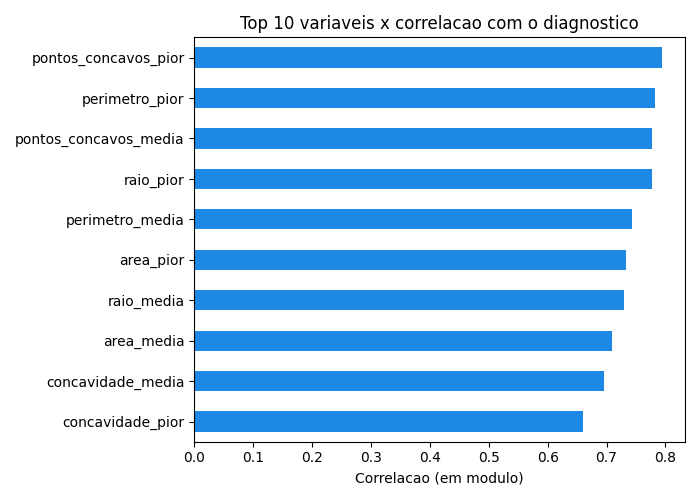
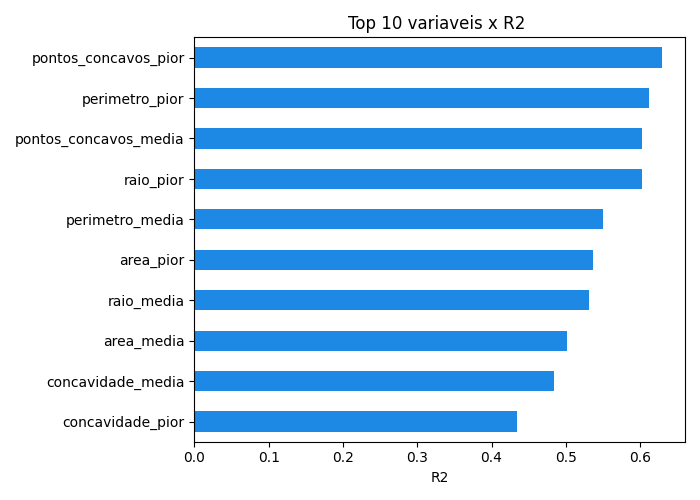
Usa R2 (eta-quadrado) para a associacao feature-diagnostico
- 01_analise_exploratoria.py: substitui correlacao de Pearson por
  eta-quadrado (1 - var_dentro/var_total, ddof=1), consistente com r2_features.py
- regenera imagens/correlacoes.png com o ranking por R2
- adiciona r2_features.py e prompt de slides; ignora *.log (politica source-only)

diff --git a/01_analise_exploratoria.py b/01_analise_exploratoria.py
@@ -82,18 +82,37 @@ print(f"Maligno: {contagem.get('M', 0)} "
 print("A base e razoavelmente equilibrada (nao ha classe muito rara).")
 
 # ---------------------------------------------------------------------------
-# 4) CORRELACAO COM O DIAGNOSTICO -> JUSTIFICATIVA DA ESCOLHA DAS FEATURES
+# 4) ASSOCIACAO COM O DIAGNOSTICO (R2 / ETA-QUADRADO)
+#    -> JUSTIFICATIVA DA ESCOLHA DAS FEATURES
 # ---------------------------------------------------------------------------
 print("\n" + "=" * 70)
-print("4) VARIAVEIS MAIS RELACIONADAS COM O DIAGNOSTICO")
+print("4) VARIAVEIS MAIS RELACIONADAS COM O DIAGNOSTICO (R2 / ETA-QUADRADO)")
 print("=" * 70)
-# Transformamos o alvo em numero: Maligno = 1, Benigno = 0
-df["alvo_num"] = (df["diagnostico"] == "M").astype(int)
-# Correlacao (em modulo) de cada variavel com o alvo.
-# Quanto mais perto de 1, mais a variavel ajuda a separar as classes.
+# O diagnostico e uma variavel QUALITATIVA (B/M). Para medir a associacao
+# entre uma variavel quantitativa e uma qualitativa usamos o eta-quadrado (R2),
+# que e a medida correta nesse caso (independente do numero de categorias).
+#
+# Formula (conforme PDF):
+#     var_dentro = (n_B * var_B + n_M * var_M) / N
+#     R2 = 1 - var_dentro / var_total
+# Usamos ddof=1 (variancia amostral) em todos os calculos, de forma consistente.
 variaveis = [c for c in colunas if c not in ("id", "diagnostico")]
-correlacoes = df[variaveis].corrwith(df["alvo_num"]).abs().sort_values(ascending=False)
-print("Top 12 variaveis mais correlacionadas com o diagnostico:")
+benignos   = df[df["diagnostico"] == "B"]
+malignos   = df[df["diagnostico"] == "M"]
+N = len(df)
+
+
+def eta2(feature):
+    var_total  = df[feature].var(ddof=1)
+    var_dentro = (len(benignos) * benignos[feature].var(ddof=1) +
+                  len(malignos) * malignos[feature].var(ddof=1)) / N
+    return 1 - var_dentro / var_total
+
+
+correlacoes = pd.Series(
+    {v: eta2(v) for v in variaveis}
+).sort_values(ascending=False)
+print("Top 12 variaveis com maior R2 (eta-quadrado) em relacao ao diagnostico:")
 print(correlacoes.head(12).round(3))
 
 # ---------------------------------------------------------------------------
@@ -112,11 +131,11 @@ plt.tight_layout()
 plt.savefig("imagens/distribuicao_classes.png")
 plt.close()
 
-# Grafico 2: top variaveis correlacionadas
+# Grafico 2: top variaveis por R2 (eta-quadrado)
 plt.figure(figsize=(7, 5))
 correlacoes.head(10).iloc[::-1].plot(kind="barh", color="#1E88E5")
-plt.title("Top 10 variaveis x correlacao com o diagnostico")
-plt.xlabel("Correlacao (em modulo)")
+plt.title("Top 10 variaveis x R2 ")
+plt.xlabel("R2")
 plt.tight_layout()
 plt.savefig("imagens/correlacoes.png")
 plt.close()

diff --git a/r2_features.py b/r2_features.py
@@ -1,0 +1,60 @@
+import pandas as pd
+
+FEATURE_NAMES = [
+    "radius_mean", "texture_mean", "perimeter_mean", "area_mean",
+    "smoothness_mean", "compactness_mean", "concavity_mean", "concave_points_mean",
+    "symmetry_mean", "fractal_dimension_mean",
+    "radius_se", "texture_se", "perimeter_se", "area_se",
+    "smoothness_se", "compactness_se", "concavity_se", "concave_points_se",
+    "symmetry_se", "fractal_dimension_se",
+    "radius_worst", "texture_worst", "perimeter_worst", "area_worst",
+    "smoothness_worst", "compactness_worst", "concavity_worst", "concave_points_worst",
+    "symmetry_worst", "fractal_dimension_worst",
+]
+
+COLUMNS = ["id", "diagnosis"] + FEATURE_NAMES
+
+df = pd.read_csv("wdbc.data", header=None, names=COLUMNS)
+
+benign    = df[df["diagnosis"] == "B"]
+malignant = df[df["diagnosis"] == "M"]
+N = len(df)
+
+
+def eta2(feature):
+    """
+    Eta-quadrado: medida correta para associacao entre variavel quantitativa
+    e variavel qualitativa (independente do numero de categorias).
+
+    Formula (conforme PDF):
+        var_dentro = (n_B * var_B + n_M * var_M) / N
+        eta2 = 1 - var_dentro / var_total
+
+    Usa ddof=1 em todos os calculos (variancia amostral), de forma consistente.
+    """
+    var_total  = df[feature].var(ddof=1)
+    var_dentro = (len(benign)    * benign[feature].var(ddof=1) +
+                  len(malignant) * malignant[feature].var(ddof=1)) / N
+    return 1 - var_dentro / var_total
+
+
+resultados = sorted(
+    [(f, eta2(f)) for f in FEATURE_NAMES],
+    key=lambda x: x[1],
+    reverse=True
+)
+
+print("=" * 55)
+print("Eta-quadrado (R2) — Breast Cancer Wisconsin")
+print("Metodo: 1 - var_dentro / var_total  (ddof=1)")
+print("=" * 55)
+print("{:<4} {:<30} {:>8}".format("Rank", "Feature", "R2"))
+print("-" * 55)
+for i, (feature, r2) in enumerate(resultados, 1):
+    print("{:<4} {:<30} {:>8.6f}".format(i, feature, r2))
+print("=" * 55)
+
+results_df = pd.DataFrame(resultados, columns=["feature", "r2"])
+results_df.index = range(1, len(results_df) + 1)
+results_df.to_csv("r2_features.csv", index_label="rank")
+print("\nResultados salvos em 'r2_features.csv'.")

diff --git a/app.py b/app.py
@@ -12,7 +12,7 @@ O que faz:
   5. Mostra o resultado (e a probabilidade) na tela.
 
 Para rodar:  python app.py
-Depois abra no navegador: http://127.0.0.1:5000
+Depois abra no navegador: http://127.0.0.1:5050
 """
 
 import joblib
@@ -74,4 +74,9 @@ def index():
 
 if __name__ == "__main__":
     # debug=True facilita o desenvolvimento (mostra erros e recarrega sozinho).
-    app.run(debug=True)
+    # threaded=True permite atender varias conexoes ao mesmo tempo. Sem isso,
+    # o navegador (que mantem a conexao aberta) pode travar a pagina no Windows.
+    # use_reloader=False evita o "processo filho" do reloader, que no Windows
+    # (especialmente rodando pelo Thonny) costuma ficar orfao segurando a porta
+    # 5000 e faz a pagina ficar "carregando" para sempre.
+    app.run(host="127.0.0.1", port=5050, debug=True, threaded=True, use_reloader=False)

diff --git a/prompt_slides_notebooklm.md b/prompt_slides_notebooklm.md
@@ -1,0 +1,130 @@
+# Prompt para NotebookLM — Apresentação de 15 slides
+
+> Cole o texto abaixo no NotebookLM (na função de criação de apresentação/visão geral em slides).
+> Os arquivos do projeto (PDF do trabalho, README, scripts `.py`, imagens da pasta `imagens/`)
+> devem estar adicionados como fontes do notebook para que o conteúdo seja fiel.
+
+---
+
+## INSTRUÇÃO PARA O NOTEBOOKLM
+
+Crie uma apresentação de slides com **exatamente 15 slides**, em **português do Brasil**, com tom
+**acadêmico, claro e didático**, adequada para a apresentação oral de um trabalho final de faculdade.
+Use as fontes adicionadas (especificação do trabalho, README e código-fonte) como base e **não invente
+dados** — use apenas os números e fatos presentes nas fontes.
+
+Para cada slide gere: um **título curto**, de **3 a 5 bullets objetivos** (frases curtas, não parágrafos)
+e uma **nota do apresentador** (1 a 2 frases) com o que falar. Quando houver imagem disponível na pasta
+`imagens/`, indique qual usar. Mantenha consistência visual: tema limpo, cores que remetam a saúde/dados
+(azul e verde), fonte legível.
+
+Tema do trabalho: **Diagnóstico de Câncer de Mama com Naive Bayes** — Probabilidade e Estatística,
+Engenharia da Computação, IFCE (Prof. Valberto Feitosa). Base: Breast Cancer Wisconsin Diagnostic (WDBC).
+
+Estruture os 15 slides exatamente assim:
+
+---
+
+**Slide 1 — Capa**
+- Título: "Diagnóstico de Câncer de Mama com Naive Bayes"
+- Subtítulo: Trabalho Final de Probabilidade e Estatística — IFCE
+- Curso de Engenharia da Computação / Prof. Valberto Feitosa
+- Nomes da equipe e data
+- Nota: apresentar o tema e que o projeto cobre o ciclo completo de Machine Learning.
+
+**Slide 2 — Objetivo do trabalho**
+- Desenvolver uma solução completa de Machine Learning, da análise dos dados à aplicação web
+- Etapas: analisar dados → selecionar features → treinar Naive Bayes → salvar modelo → app web
+- Problema: classificar tumores como Benigno ou Maligno
+- Nota: explicar que o foco é o ciclo completo, não apenas o modelo.
+
+**Slide 3 — A base de dados (WDBC)**
+- 569 pacientes (observações) e 30 variáveis numéricas + 1 alvo (diagnóstico)
+- Variáveis extraídas de imagem do núcleo celular (punção por agulha fina)
+- Alvo: B = Benigno, M = Maligno
+- Sem valores faltantes
+- Nota: citar a fonte oficial (UCI Machine Learning Repository).
+
+**Slide 4 — As 30 variáveis**
+- 10 medidas básicas: raio, textura, perímetro, área, suavidade, compacidade, concavidade, pontos côncavos, simetria, dimensão fractal
+- Cada medida em 3 versões: média (mean), erro padrão (se) e pior valor (worst)
+- 10 × 3 = 30 variáveis preditoras
+- Nota: explicar de onde vêm as 30 colunas do dataset.
+
+**Slide 5 — Análise exploratória (EDA)**
+- Estatísticas descritivas (média, desvio, mín/máx, quartis) via `describe()`
+- Verificação de valores faltantes (nenhum)
+- Script: `01_analise_exploratoria.py`
+- Nota: mostrar que os dados foram compreendidos antes de modelar.
+
+**Slide 6 — Distribuição das classes**
+- 357 Benignos (62,7%) e 212 Malignos (37,3%)
+- Base razoavelmente equilibrada (sem classe muito rara)
+- Imagem: `imagens/distribuicao_classes.png`
+- Nota: justificar por que não houve necessidade de balanceamento.
+
+**Slide 7 — Correlação com o diagnóstico**
+- Alvo convertido em número (Maligno = 1, Benigno = 0)
+- Correlação de cada variável com o diagnóstico (quanto mais perto de 1, melhor separa as classes)
+- Imagem: `imagens/correlacoes.png` (top 10 variáveis)
+- Nota: esta análise embasou a escolha das features.
+
+**Slide 8 — Box plots por classe**
+- 30 features padronizadas (z-score) comparadas Benigno × Maligno
+- Caixas bem separadas = feature que distingue bem as classes
+- Imagem: `imagens/boxplots_todas_features.png`
+- Nota: reforço visual da capacidade de separação das variáveis.
+
+**Slide 9 — Seleção e justificativa das features**
+- Das 30, foram escolhidas as 6 de maior correlação com o diagnóstico:
+- pontos_concavos_pior (0,794), perimetro_pior (0,783), pontos_concavos_media (0,777)
+- raio_pior (0,776), perimetro_media (0,743), area_pior (0,734)
+- Modelo simples + formulário enxuto + ótimo desempenho
+- Nota: justificar a escolha com base estatística, não arbitrária.
+
+**Slide 10 — Pré-processamento**
+- Coluna ID descartada (não ajuda no diagnóstico)
+- Alvo convertido: Maligno = 1, Benigno = 0
+- Divisão 80% treino / 20% teste com `stratify` (mantém proporção das classes)
+- GaussianNB não exige normalização → sem padronização no modelo
+- Nota: explicar por que o pré-processamento foi mínimo.
+
+**Slide 11 — O modelo Naive Bayes**
+- Algoritmo: Naive Bayes Gaussiano (`GaussianNB` do scikit-learn)
+- Baseado no Teorema de Bayes; assume variáveis independentes e com distribuição Normal por classe
+- Treinado em `02_treinar_modelo.py`
+- Nota: conectar com o conteúdo de Probabilidade e Estatística (Teorema de Bayes).
+
+**Slide 12 — Avaliação do modelo**
+- Resultados no teste (114 pacientes): Acurácia ~93,9%
+- Precisão ~0,95 | Recall ~0,88 | F1-Score ~0,91
+- Métricas calculadas com scikit-learn
+- Nota: explicar cada métrica em uma frase (acurácia, precisão, recall, F1).
+
+**Slide 13 — Matriz de confusão**
+- Compara o real (Benigno/Maligno) com o previsto
+- Mostra acertos e os tipos de erro (falsos positivos / falsos negativos)
+- Imagem: `imagens/matriz_confusao.png`
+- Nota: comentar a importância de minimizar falsos negativos em diagnóstico.
+
+**Slide 14 — Aplicação web (Flask)**
+- Modelo salvo com joblib (`modelo_naive_bayes.joblib`) e carregado no `app.py`
+- Front-end: página HTML com formulário das 6 variáveis e botão "Prever"
+- Back-end (Flask): recebe os dados, aplica o modelo e retorna o resultado
+- Fluxo: usuário preenche → Prever → "Tumor Benigno" ou "Tumor Maligno" (com probabilidade)
+- Nota: demonstrar o app rodando em http://127.0.0.1:5050, se possível.
+
+**Slide 15 — Conclusão**
+- Ciclo completo de ML realizado: EDA → seleção de features → treino → modelo salvo → app web
+- Naive Bayes alcançou ~94% de acurácia com apenas 6 variáveis
+- Projeto educacional — não substitui diagnóstico médico real
+- Tecnologias: Python, scikit-learn, Pandas, joblib, Flask, HTML/CSS
+- Nota: encerrar reforçando o aprendizado e abrir para perguntas.
+
+---
+
+### Diretrizes finais
+- Mantenha cada slide enxuto (texto que caiba na tela, sem parágrafos longos).
+- Use os números exatamente como nas fontes (569, 30, 357/212, 93,9%, etc.).
+- Prefira verbos no passado para o que foi feito ("selecionamos", "treinamos", "avaliamos").
+- Inclua as imagens citadas nos slides 6, 7, 8 e 13.
